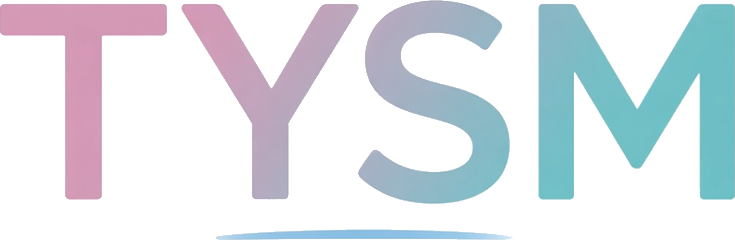
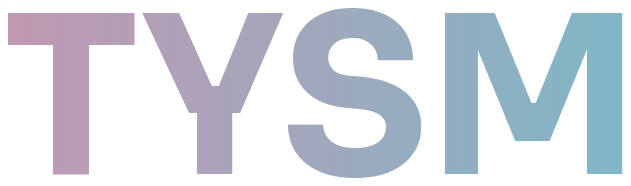
Redraw the wordmark without a white plate and set a clearer type scale.
Noto Sans HK stays the zh-HK UI face. Sora replaces Outfit for prices and Latin display. Header and favicon no longer sit on a white rectangle.

diff --git a/app/globals.css b/app/globals.css
@@ -15,7 +15,7 @@
   --ok: #1f7a62;
   --wash-rose: rgba(196, 152, 178, 0.34);
   --wash-teal: rgba(124, 185, 200, 0.26);
-  --shadow: 0 1px 2px rgba(34, 24, 32, 0.04), 0 12px 32px rgba(168, 120, 146, 0.12);
+  --shadow: 0 1px 1px rgba(34, 24, 32, 0.04), 0 14px 32px rgba(168, 120, 146, 0.16), inset 0 1px 0 rgba(255, 255, 255, 0.72);
 }
 
 .dark {
@@ -31,7 +31,7 @@
   --ok: #7ddcb8;
   --wash-rose: rgba(196, 152, 178, 0.14);
   --wash-teal: rgba(124, 185, 200, 0.1);
-  --shadow: 0 1px 0 rgba(255, 255, 255, 0.04), 0 16px 36px rgba(0, 0, 0, 0.38);
+  --shadow: inset 0 1px 0 rgba(255, 255, 255, 0.06), 0 16px 36px rgba(0, 0, 0, 0.42);
 }
 
 html {
@@ -71,9 +71,82 @@ svg {
   max-width: 100%;
 }
 
-h1,
-h2 {
-  letter-spacing: -0.02em;
+@layer base {
+  h1,
+  h2 {
+    font-weight: 700;
+    line-height: 1.28;
+    letter-spacing: 0;
+  }
+}
+
+.page-title {
+  margin-bottom: 0.9rem;
+  font-size: 1.65rem;
+}
+
+.page-title::after,
+.accent::after {
+  content: "";
+  display: block;
+  width: 2.35rem;
+  height: 3px;
+  margin-top: 0.5rem;
+  border-radius: 999px;
+  background: linear-gradient(90deg, #c498b2, #7cb9c8);
+}
+
+.panel {
+  position: relative;
+  overflow: hidden;
+}
+
+.panel::before {
+  content: "";
+  position: absolute;
+  top: 0;
+  right: 0;
+  left: 0;
+  height: 3px;
+  background: linear-gradient(90deg, #c498b2, #7cb9c8);
+}
+
+.menu-row {
+  position: relative;
+  overflow: hidden;
+}
+
+.menu-row::before {
+  content: "";
+  position: absolute;
+  top: 0;
+  bottom: 0;
+  left: 0;
+  width: 3px;
+  background: linear-gradient(#c498b2, #7cb9c8);
+}
+
+.empty {
+  display: grid;
+  justify-items: center;
+  gap: 0.7rem;
+  margin: 1.75rem auto;
+  max-width: 18rem;
+  padding: 1.75rem 1.25rem 1.5rem;
+  text-align: center;
+  color: var(--muted);
+  background: var(--card);
+  border-radius: 1.35rem;
+  box-shadow: var(--shadow);
+}
+
+.empty::before {
+  content: "";
+  width: 2.75rem;
+  height: 2.75rem;
+  border-radius: 999px;
+  background: linear-gradient(135deg, #c498b2, #7cb9c8);
+  box-shadow: 0 10px 20px rgba(124, 185, 200, 0.32);
 }
 
 .field {
@@ -81,13 +154,13 @@ h2 {
 }
 
 .btn {
-  @apply inline-flex min-h-12 items-center justify-center rounded-full px-5 text-[15px] font-semibold tracking-tight transition active:scale-[0.98] disabled:opacity-60;
+  @apply inline-flex min-h-12 items-center justify-center rounded-full px-5 text-[15px] font-semibold transition active:scale-[0.98] disabled:opacity-60;
 }
 
 .btn-primary {
-  background-image: linear-gradient(105deg, #c498b2 0%, #d9b4c6 46%, #7cb9c8 100%);
+  background-image: linear-gradient(105deg, #c498b2 0%, #d9b4c6 42%, #7cb9c8 100%);
   color: #1b1418;
-  box-shadow: 0 8px 20px rgba(124, 185, 200, 0.28);
+  box-shadow: 0 10px 22px rgba(124, 185, 200, 0.34);
 }
 
 .btn-ghost {
@@ -97,8 +170,8 @@ h2 {
 
 .price {
   font-family: var(--font-display), var(--font-sans), sans-serif;
-  font-weight: 600;
-  letter-spacing: -0.03em;
+  font-weight: 700;
+  letter-spacing: -0.02em;
   font-variant-numeric: tabular-nums lining-nums;
 }
 
@@ -126,7 +199,7 @@ h2 {
 .feed {
   display: grid;
   grid-template-columns: repeat(2, minmax(0, 1fr));
-  gap: 0.85rem 0.7rem;
+  gap: 1rem 0.75rem;
 }
 
 @media (min-width: 768px) {

diff --git a/components/listing-card.tsx b/components/listing-card.tsx
@@ -46,14 +46,14 @@ export function ListingCard({
       <Link href={`/listing/${listing.id}`} className="block">
         <div className="relative">
           <img src={listing.photos[0]?.url || "/demo/back.svg"} alt="" className="aspect-[4/5] w-full object-cover" />
-          <span className="absolute left-2 top-2 max-w-[70%] truncate rounded-full bg-white/90 px-2.5 py-1 text-[11px] font-medium text-[#221820] shadow-sm">
+          <span className="absolute left-2.5 top-2.5 max-w-[68%] truncate rounded-full bg-card/95 px-2.5 py-1 text-[11px] font-semibold text-ink shadow-sm">
             {conditionLabel(listing)}
           </span>
         </div>
-        <div className="grid gap-1 px-2.5 pb-3 pt-2.5">
-          <h2 className="line-clamp-2 min-h-[2.6em] text-[15px] font-medium leading-snug">{listing.title}</h2>
-          <p className="price text-[1.15rem] leading-none">{formatHkd(amount, locale)}</p>
-          <p className="truncate text-xs text-muted">
+        <div className="grid gap-1.5 px-3 pb-3.5 pt-3">
+          <h2 className="line-clamp-2 min-h-[2.5em] text-[15px] font-semibold leading-snug">{listing.title}</h2>
+          <p className="price text-xl leading-none">{formatHkd(amount, locale)}</p>
+          <p className="truncate text-xs leading-4 text-muted">
             {sale}
             {followed ? ` · ${tx(locale, "關注中", "Following")}` : ""}
             {live && listing.auctionEndsAt ? ` · ${formatHKT(listing.auctionEndsAt, locale, false)}` : ` · ${listing.seller.nickname}`}

diff --git a/app/page.tsx b/app/page.tsx
@@ -64,15 +64,15 @@ export default async function HomePage({
       <div className="mb-3 md:hidden">
         <SearchBox locale={prefs.locale} />
       </div>
-      <h1 className="mb-3 text-[1.35rem] font-bold md:text-2xl">{tx(prefs.locale, "卡牌動態", "Card feed")}</h1>
+      <h1 className="page-title">{tx(prefs.locale, "卡牌動態", "Card feed")}</h1>
       <div className="-mx-3 mb-4 flex gap-2 overflow-x-auto px-3 pb-1 md:mx-0 md:px-0">
         {categories.map((cat) => (
-          <Link key={cat.id} href={`/search?cat=${cat.slug}`} className="inline-flex h-11 shrink-0 items-center rounded-full bg-card px-4 text-sm font-medium shadow-card">
+          <Link key={cat.id} href={`/search?cat=${cat.slug}`} className="inline-flex h-11 shrink-0 items-center rounded-full bg-card px-4 text-sm font-semibold shadow-card ring-1 ring-inset ring-rose/25">
             {prefs.locale === "en" ? cat.nameEn : cat.nameZh}
           </Link>
         ))}
       </div>
-      {listings.length === 0 ? <p>{tx(prefs.locale, "暫時未有刊登。", "No listings yet.")}</p> : null}
+      {listings.length === 0 ? <p className="empty">{tx(prefs.locale, "暫時未有刊登。", "No listings yet.")}</p> : null}
       <div className="feed">
         {listings.map((listing) => (
           <ListingCard

diff --git a/app/search/page.tsx b/app/search/page.tsx
@@ -68,7 +68,7 @@ export default async function SearchPage({
   return (
     <div>
       <Flash locale={prefs.locale} ok={one(sp.ok)} err={one(sp.err)} />
-      <h1 className="mb-3 text-[1.65rem] font-bold">{tx(prefs.locale, "搜尋", "Search")}</h1>
+      <h1 className="page-title">{tx(prefs.locale, "搜尋", "Search")}</h1>
       <SearchBox locale={prefs.locale} initial={q} autoFocus>
         <div className="mt-3 grid grid-cols-2 gap-2.5 md:grid-cols-5">
         <select className="field col-span-2 md:col-span-1" name="cat" defaultValue={cat}>
@@ -116,7 +116,7 @@ export default async function SearchPage({
         </div>
       ) : null}
       {q ? <p className="mb-3 text-sm text-muted">{shown.length} {tx(prefs.locale, "件", "results")}</p> : null}
-      {shown.length === 0 ? <p>{tx(prefs.locale, "找不到相關卡牌。", "No matching cards.")}</p> : null}
+      {shown.length === 0 ? <p className="empty">{tx(prefs.locale, "找不到相關卡牌。", "No matching cards.")}</p> : null}
       <div className="feed">
         {shown.map((listing) => (
           <ListingCard key={listing.id} listing={listing} locale={prefs.locale} favorited={favIds.has(listing.id)} followed={false} next="/search" />

diff --git a/app/cart/page.tsx b/app/cart/page.tsx
@@ -31,9 +31,9 @@ export default async function CartPage({ searchParams }: { searchParams: Promise
   return (
     <div className={items.length ? "pb-24 md:pb-0" : undefined}>
       <Flash locale={prefs.locale} ok={sp.ok} err={sp.err} />
-      <h1 className="mb-2 text-[1.65rem] font-bold">{tx(prefs.locale, "購物車", "Cart")}</h1>
+      <h1 className="page-title">{tx(prefs.locale, "購物車", "Cart")}</h1>
       <p className="mb-4 text-sm text-muted">{tx(prefs.locale, "每位賣家會分開一張訂單。同一件貨品的運費只計一次，唔會因數量倍增，亦冇合併運費優惠。", "Each seller becomes a separate order. Shipping is charged once per listing, not multiplied by quantity, and is not combined.")}</p>
-      {items.length === 0 ? <p>{tx(prefs.locale, "購物車是空的。", "Your cart is empty.")}</p> : null}
+      {items.length === 0 ? <p className="empty">{tx(prefs.locale, "購物車是空的。", "Your cart is empty.")}</p> : null}
       {[...groups.entries()].map(([sellerId, rows]) => (
         <section key={sellerId} className="surface mb-4 p-4">
           <h2 className="font-bold"><Link href={`/shop/${sellerId}`}>{rows[0].listing.seller.nickname}</Link></h2>

diff --git a/components/shell.tsx b/components/shell.tsx
@@ -24,7 +24,7 @@ export function Header({
       <div className="bg-bg">
         <div className="mx-auto flex h-14 max-w-6xl items-center gap-1 overflow-x-auto px-3 md:h-16 md:gap-3 md:px-5">
           <Link href="/" className="shrink-0 pr-1">
-            <img src="/brand/tysm-wordmark.png" alt="TYSM" className="h-8 w-auto sm:h-9 md:h-10" />
+            <img src="/brand/tysm-wordmark.png" alt="TYSM" className="h-8 w-auto bg-transparent sm:h-9 md:h-10" />
           </Link>
           <div className="mx-auto hidden min-w-0 max-w-xl flex-1 md:block">
             <SearchBox locale={locale} />
@@ -39,7 +39,7 @@ export function Header({
               {unread ? <Count n={unread} /> : null}
             </Link>
           </div>
-          <nav className="ml-auto hidden items-center gap-x-4 text-sm text-muted md:flex">
+          <nav className="ml-auto hidden items-center gap-x-4 text-sm font-medium text-muted md:flex">
             <Link className="hover:text-ink" href="/sell">{nav.sell}</Link>
             <Link className="hover:text-ink" href="/cart">{nav.cart}{cartCount ? ` (${cartCount})` : ""}</Link>
             <Link className="hover:text-ink" href="/orders">{nav.orders}</Link>

diff --git a/app/orders/page.tsx b/app/orders/page.tsx
@@ -20,12 +20,12 @@ export default async function OrdersPage({ searchParams }: { searchParams: Promi
   });
   return (
     <div>
-      <h1 className="mb-3 text-[1.65rem] font-bold">{tx(prefs.locale, "訂單", "Orders")}</h1>
+      <h1 className="page-title">{tx(prefs.locale, "訂單", "Orders")}</h1>
       <div className="mb-4 grid grid-cols-2 gap-1 rounded-full bg-soft p-1 text-sm">
         <Link href="/orders" className={`grid h-11 place-items-center rounded-full ${!selling ? "bg-card font-semibold shadow-card" : "text-muted"}`}>{tx(prefs.locale, "我買的", "Purchases")}</Link>
         <Link href="/orders?role=sell" className={`grid h-11 place-items-center rounded-full ${selling ? "bg-card font-semibold shadow-card" : "text-muted"}`}>{tx(prefs.locale, "我賣的", "Sales")}</Link>
       </div>
-      {orders.length === 0 ? <p>{tx(prefs.locale, "未有訂單。", "No orders yet.")}</p> : null}
+      {orders.length === 0 ? <p className="empty">{tx(prefs.locale, "未有訂單。", "No orders yet.")}</p> : null}
       <ul className="grid gap-3">
         {orders.map((order) => (
           <li key={order.id}>

diff --git a/app/layout.tsx b/app/layout.tsx
@@ -1,5 +1,5 @@
 import type { Metadata, Viewport } from "next";
-import { Noto_Sans_HK, Outfit } from "next/font/google";
+import { Noto_Sans_HK, Sora } from "next/font/google";
 import { connection } from "next/server";
 import { prisma } from "@/lib/db";
 import { getPrefs, getViewer } from "@/lib/auth";
@@ -14,7 +14,7 @@ const sans = Noto_Sans_HK({
   display: "swap",
 });
 
-const display = Outfit({
+const display = Sora({
   subsets: ["latin"],
   weight: ["500", "600", "700"],
   variable: "--font-display",
@@ -52,7 +52,7 @@ export default async function RootLayout({ children }: { children: React.ReactNo
           Skip
         </a>
         <Header locale={prefs.locale} theme={prefs.theme} user={viewer} cartCount={cartCount} unread={unread} />
-        <main id="main" className="mx-auto min-h-[70vh] w-full max-w-6xl px-3 py-3 md:px-5 md:py-8">
+        <main id="main" className="mx-auto min-h-[70vh] w-full max-w-6xl px-3 py-4 md:px-5 md:py-8">
           {children}
         </main>
         <Footer locale={prefs.locale} />

diff --git a/app/notifications/page.tsx b/app/notifications/page.tsx
@@ -13,10 +13,10 @@ export default async function NotificationsPage() {
   return (
     <div>
       <div className="mb-4 flex items-center justify-between">
-        <h1 className="text-2xl font-semibold">{tx(prefs.locale, "通知", "Notifications")}</h1>
+        <h1 className="page-title mb-0">{tx(prefs.locale, "通知", "Notifications")}</h1>
         <form action={markNotifications}><button className="text-sm underline">{tx(prefs.locale, "全部已讀", "Mark all read")}</button></form>
       </div>
-      {rows.length === 0 ? <p>{tx(prefs.locale, "未有通知。", "No notifications.")}</p> : null}
+      {rows.length === 0 ? <p className="empty">{tx(prefs.locale, "未有通知。", "No notifications.")}</p> : null}
       <ul className="grid gap-2">
         {rows.map((row) => (
           <li key={row.id} className="surface p-4 text-sm">

diff --git a/app/messages/page.tsx b/app/messages/page.tsx
@@ -23,8 +23,8 @@ export default async function MessagesPage() {
   const visible = threads.filter((thread) => !hidden.has(thread.buyerId === viewer.id ? thread.sellerId : thread.buyerId));
   return (
     <div>
-      <h1 className="mb-4 text-[1.65rem] font-bold">{tx(prefs.locale, "訊息", "Messages")}</h1>
-      {visible.length === 0 ? <p>{tx(prefs.locale, "未有對話。", "No conversations.")}</p> : null}
+      <h1 className="page-title">{tx(prefs.locale, "訊息", "Messages")}</h1>
+      {visible.length === 0 ? <p className="empty">{tx(prefs.locale, "未有對話。", "No conversations.")}</p> : null}
       <ul className="grid gap-2.5">
         {visible.map((thread) => {
           const other = thread.buyerId === viewer.id ? thread.seller : thread.buyer;

diff --git a/app/me/favorites/page.tsx b/app/me/favorites/page.tsx
@@ -15,8 +15,8 @@ export default async function FavoritesPage() {
   });
   return (
     <div>
-      <h1 className="mb-4 text-2xl font-semibold">{tx(prefs.locale, "收藏", "Favorites")}</h1>
-      {rows.length === 0 ? <p>{tx(prefs.locale, "未有收藏。", "No favorites yet.")}</p> : null}
+      <h1 className="page-title">{tx(prefs.locale, "收藏", "Favorites")}</h1>
+      {rows.length === 0 ? <p className="empty">{tx(prefs.locale, "未有收藏。", "No favorites yet.")}</p> : null}
       <div className="feed">
         {rows.map((row) => (
           <ListingCard key={row.id} listing={row.listing} locale={prefs.locale} favorited next="/me/favorites" followed={false} />

diff --git a/app/listing/[id]/page.tsx b/app/listing/[id]/page.tsx
@@ -224,7 +224,7 @@ export default async function ListingPage({
           </section>
         ) : null}
       </div>
-      <aside id="purchase" className="surface order-2 grid h-fit min-w-0 gap-4 p-4 lg:sticky lg:top-24 lg:col-start-2 lg:row-start-1 lg:row-span-2 lg:self-start lg:p-5">
+      <aside id="purchase" className="surface panel order-2 grid h-fit min-w-0 gap-4 p-4 lg:sticky lg:top-24 lg:col-start-2 lg:row-start-1 lg:row-span-2 lg:self-start lg:p-5">
         {listing.price != null && listing.saleType !== "AUCTION" ? <p className="price text-3xl">{formatHkd(listing.price, locale)}</p> : null}
         {live ? (
           <>
